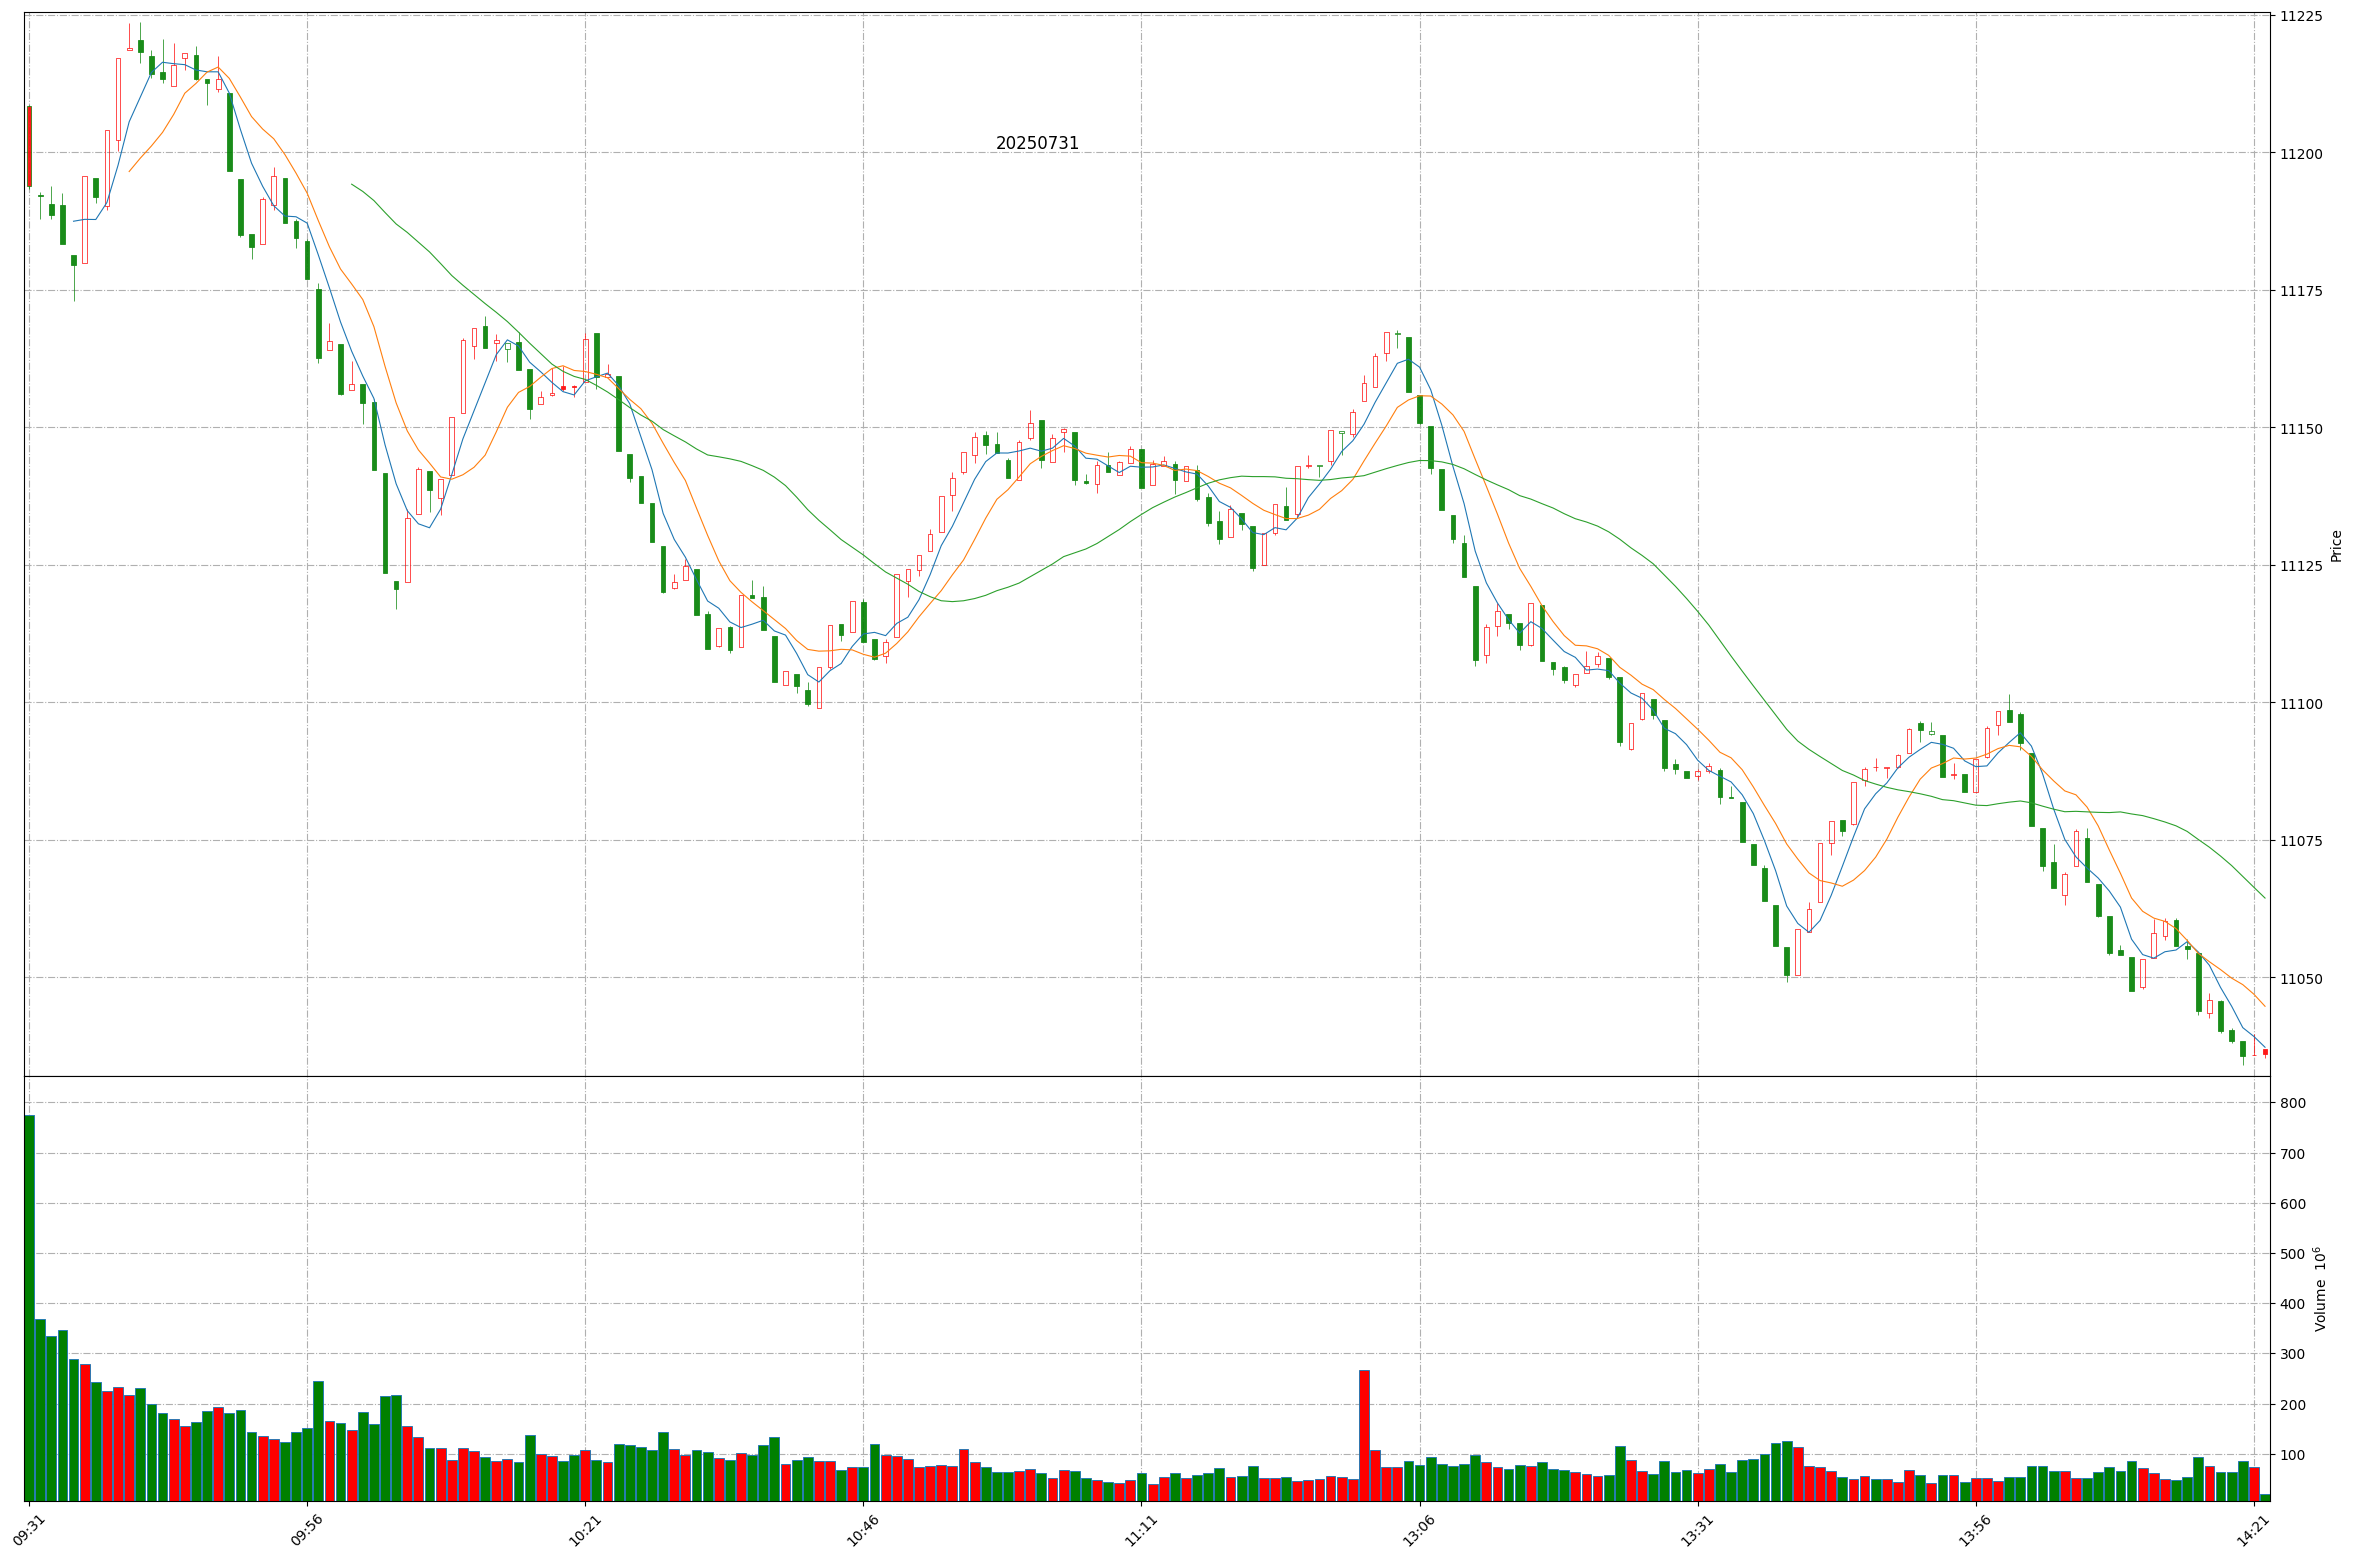
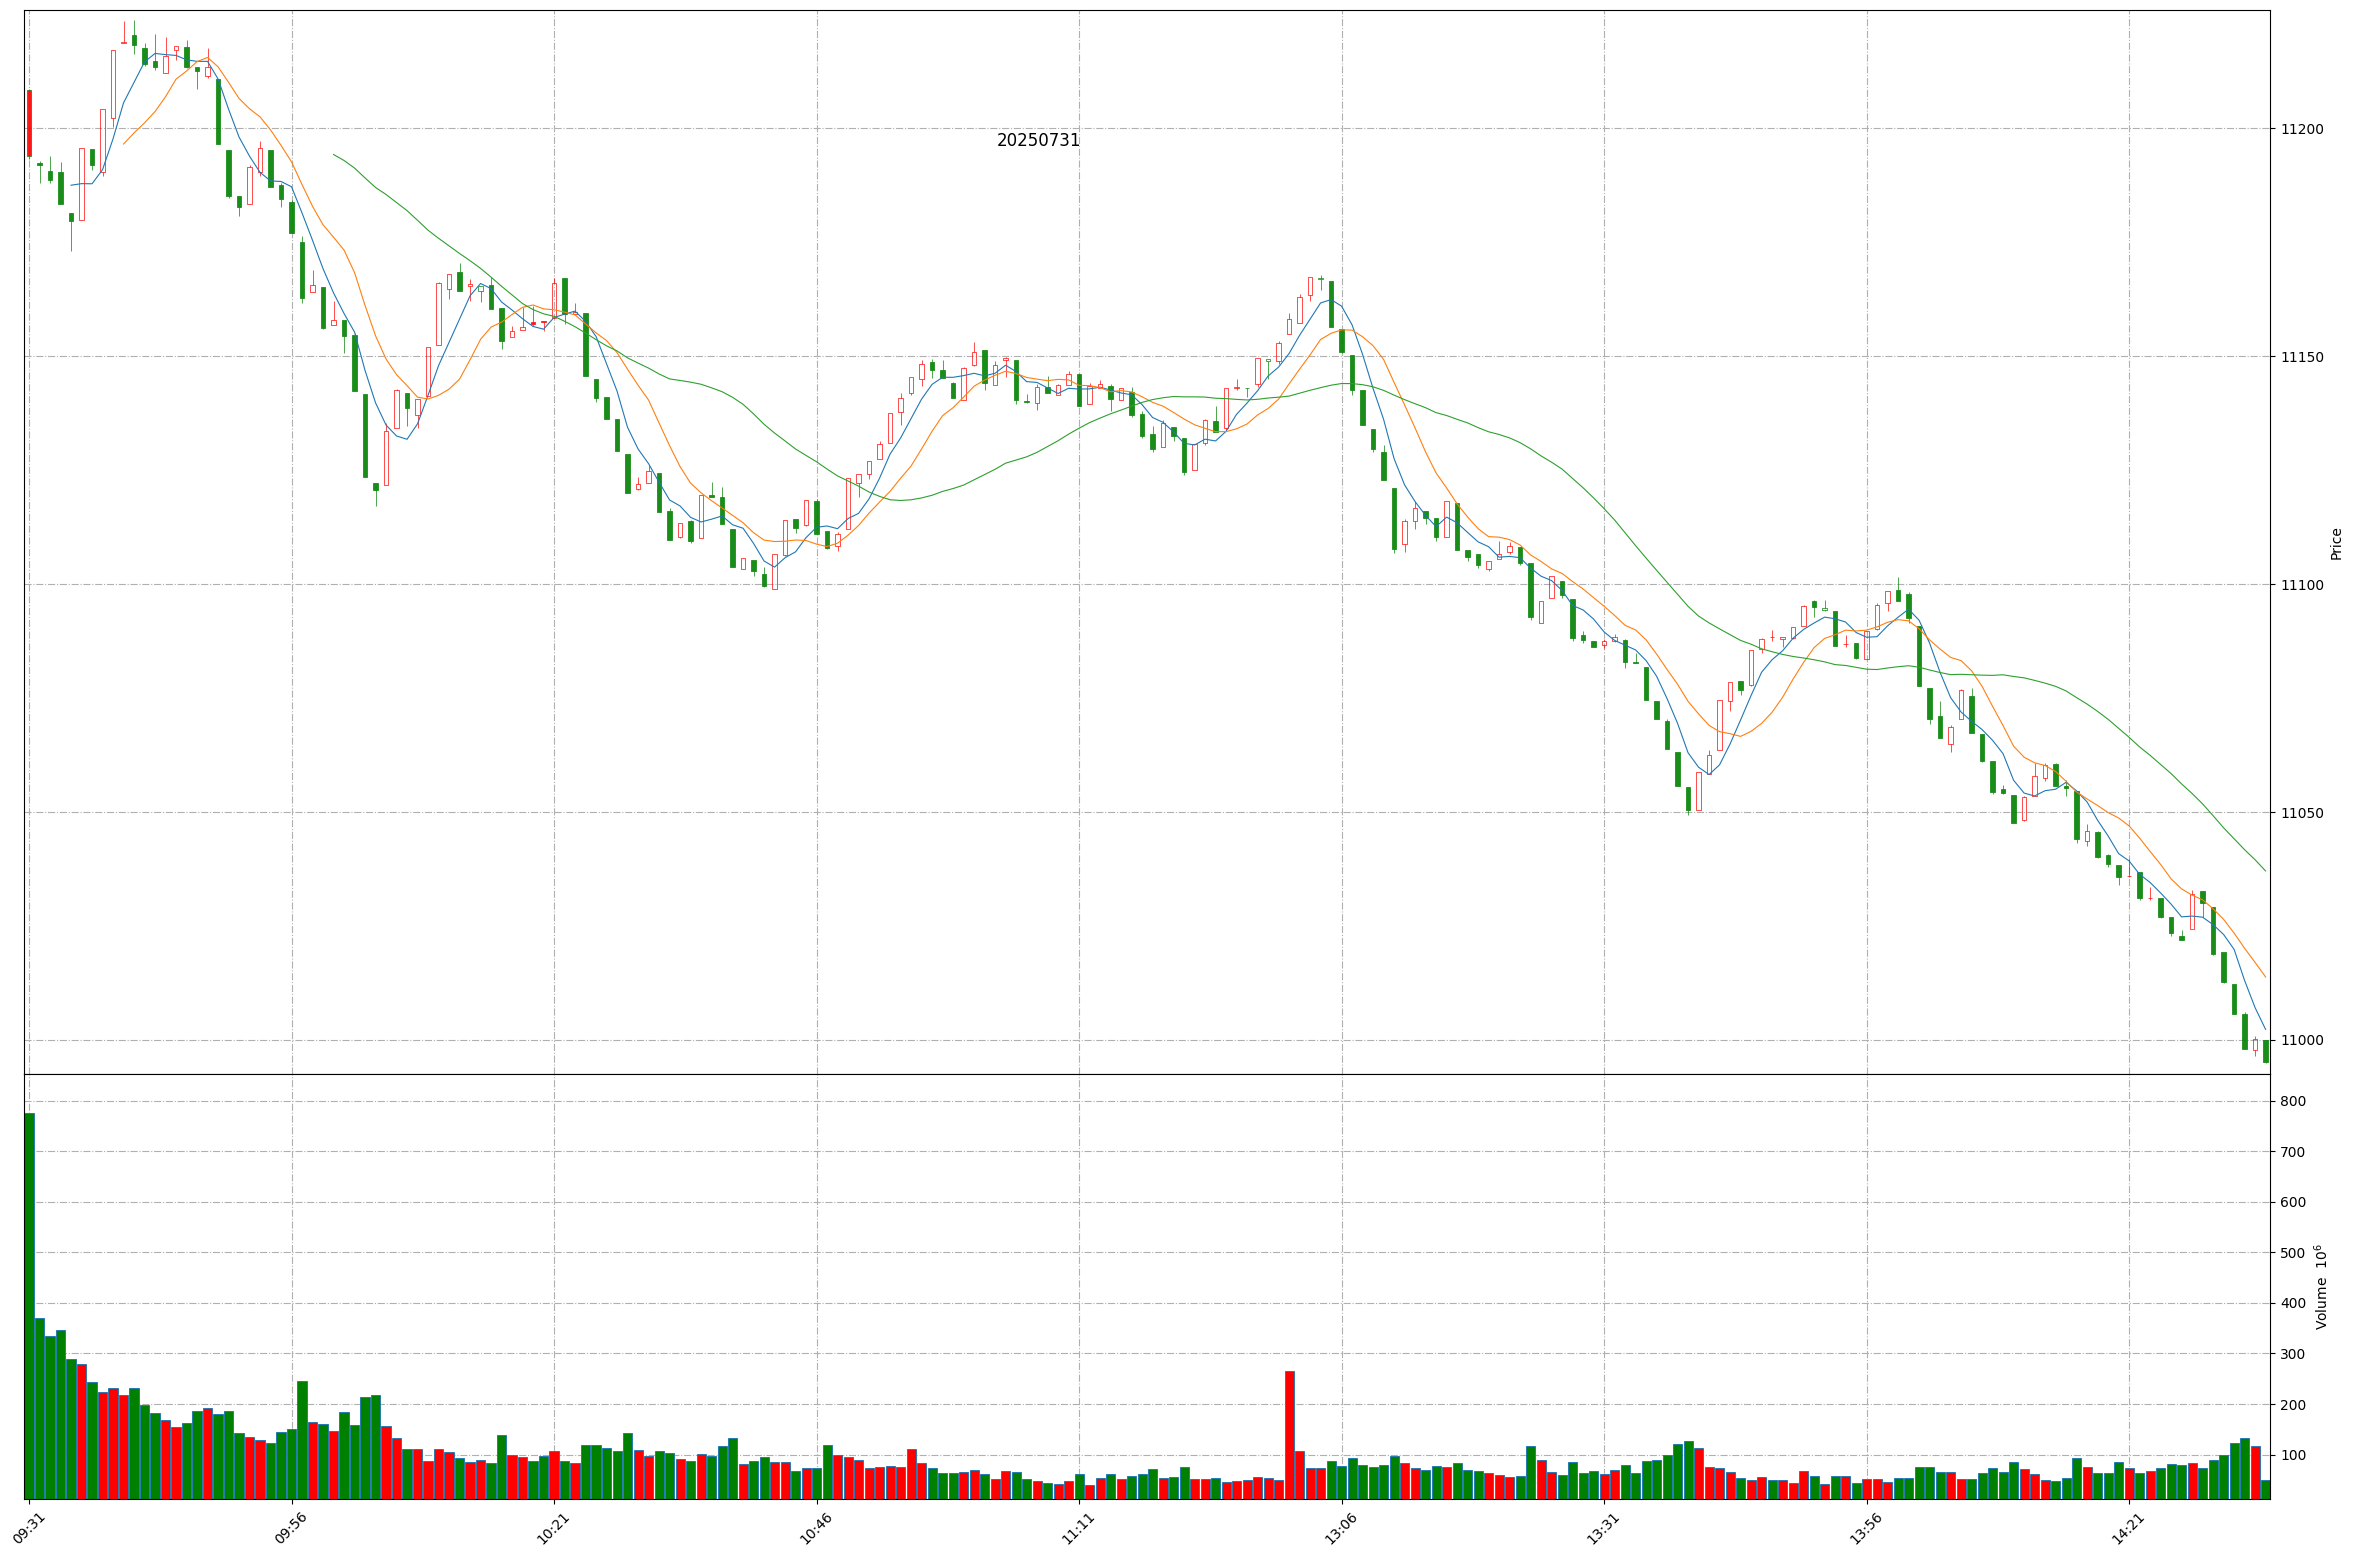
Github action update at 2025-07-31 14:33:38.

diff --git a/README.md b/README.md
@@ -1,11 +1,11 @@
 
 # Daily-A-share-market-quotes 每日 A 股指数（5min 更新）- 20250731
 
-### 上证指数 20250731 14:21
+### 上证指数 20250731 14:33
 ![](./fig/2025/7/20250731-sh000001.png)
 
-### 深证成指 20250731 14:21
+### 深证成指 20250731 14:33
 ![](./fig/2025/7/20250731-sz399001.png)
 
-### 北证50 20250731 14:21
+### 北证50 20250731 14:33
 ![](./fig/2025/7/20250731-bj899050.png)
